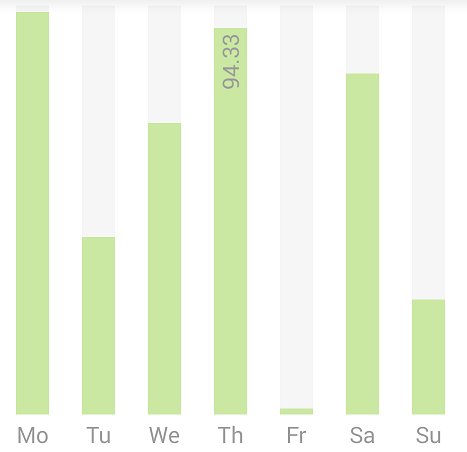
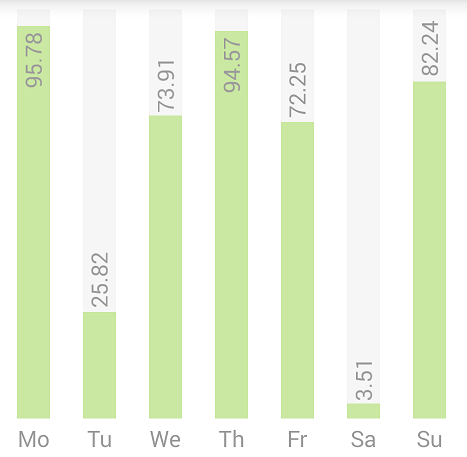
BarView - draw all values on animation finished. BarFragment example with displayAllValues. Bar image with all values displayed.

diff --git a/AndroidCharts/src/main/java/com/dacer/androidcharts/BarView.java b/AndroidCharts/src/main/java/com/dacer/androidcharts/BarView.java
@@ -179,12 +179,13 @@ public class BarView extends View {
         Rect textRect = new Rect();
         int padding = MyUtils.dip2px(getContext(), 4);
 
+        for (int i = 0 ; i < percentList.size(); i++)
+            if (percentList.get(i) != targetPercentList.get(i))
+                return;
+
         for (int i = 0; i < values.size(); i++) {
             if (displayAllValues || i == selectedBar) {
                 String vStr = Float.toString(values.get(i));
-
-                if (percentList.get(i) != targetPercentList.get(i))
-                    break;
 
                 textPaint.getTextBounds(vStr, 0, vStr.length(), textRect);
 

diff --git a/AndroidChartsExample/src/main/java/com/dacer/androidchartsexample/BarFragment.java b/AndroidChartsExample/src/main/java/com/dacer/androidchartsexample/BarFragment.java
@@ -24,6 +24,7 @@ public class BarFragment extends Fragment {
         View rootView = inflater.inflate(R.layout.fragment_bar, container, false);
         final BarView barView = (BarView) rootView.findViewById(R.id.bar_view);
         barView.setFgColor("#CAE8A2");
+        barView.displayAllValues();
         Button button = (Button) rootView.findViewById(R.id.bar_button);
         button.setOnClickListener(new View.OnClickListener() {
             @Override

diff --git a/README.md b/README.md
@@ -48,6 +48,7 @@ lineView.setDataList(dataLists);
 ```java
 BarView barView = (BarView)findViewById(R.id.bar_view);
 barView.setFgColor("#CAE8A2");
+barView.displayAllValues();
 barView.setBottomTextList(strList);
 barView.setDataList(dataList, 100);
 ```
